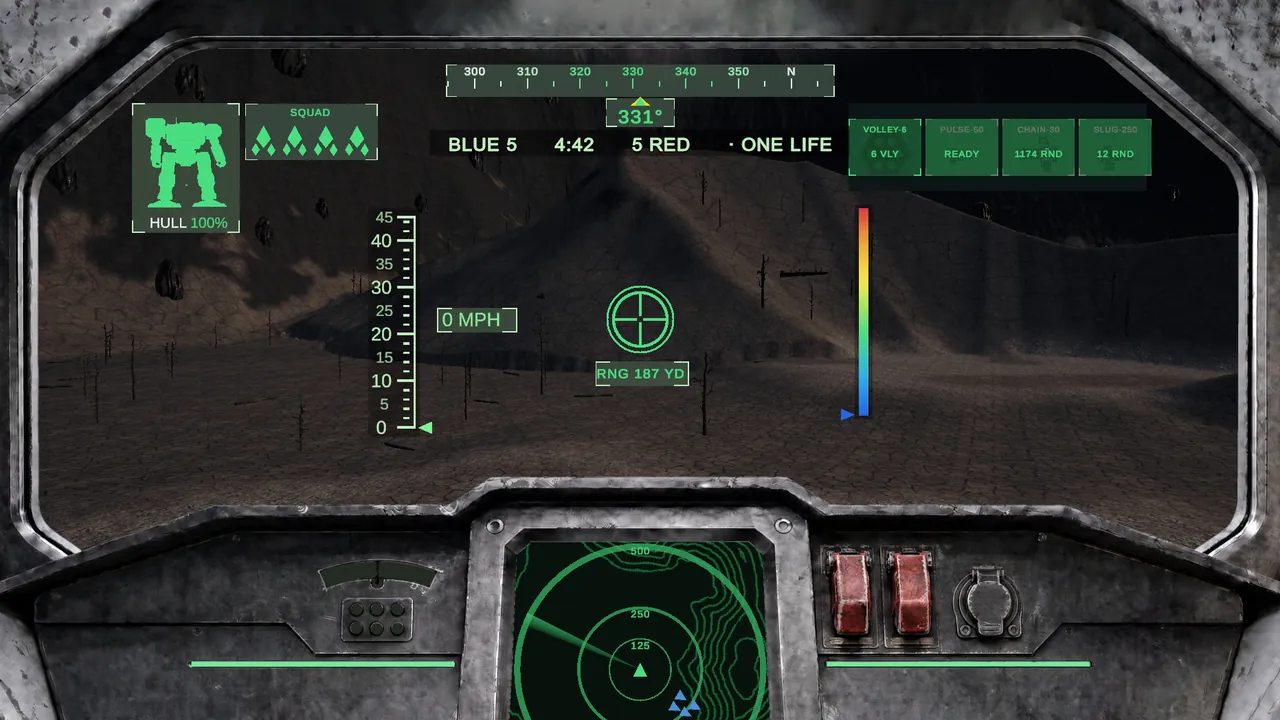
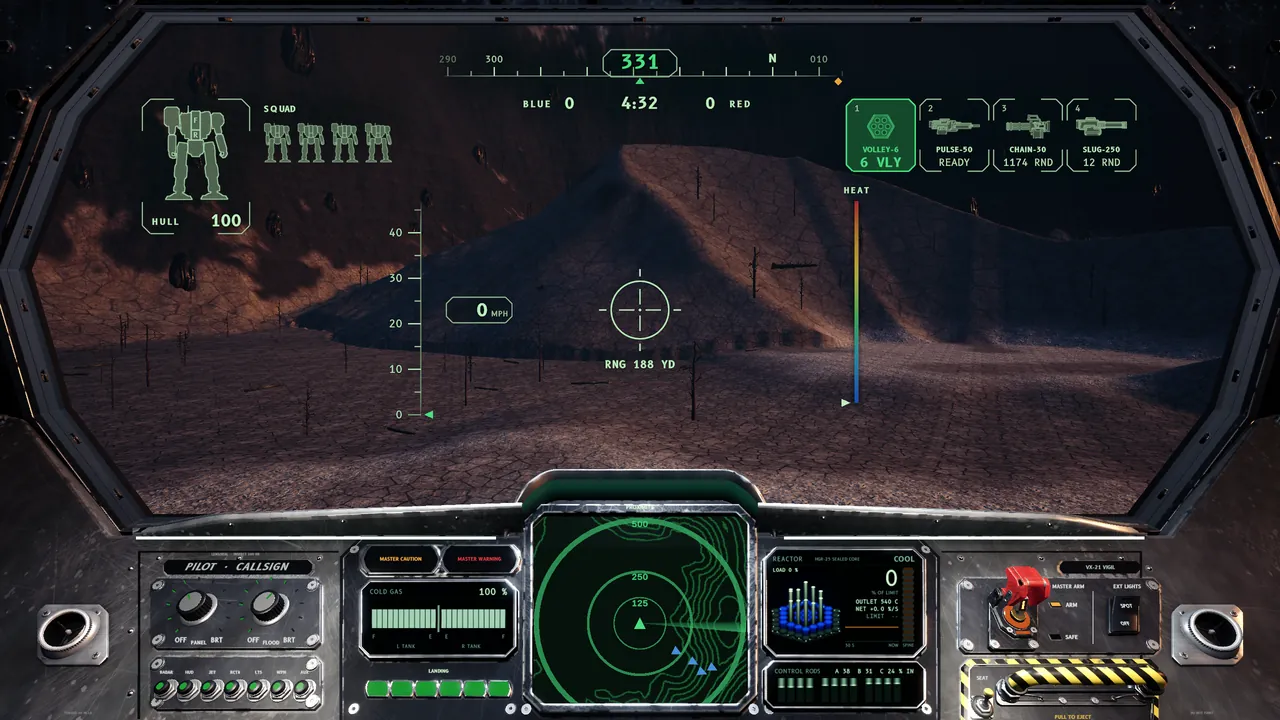
Each land's cockpit picture, re-shot in the new 3D cockpit

diff --git a/thereach/index.html b/thereach/index.html
@@ -18,15 +18,15 @@
   <meta property="og:image:height" content="630">
   <meta name="twitter:card" content="summary_large_image">
 
-  <link rel="icon" href="/favicon.svg?v=a8fa8ab9" type="image/svg+xml">
-  <link rel="icon" href="/favicon-32.png?v=a8fa8ab9" sizes="32x32" type="image/png">
+  <link rel="icon" href="/favicon.svg?v=9d29cd86" type="image/svg+xml">
+  <link rel="icon" href="/favicon-32.png?v=9d29cd86" sizes="32x32" type="image/png">
   <link rel="apple-touch-icon" href="/apple-touch-icon.png">
 
   <link rel="preload" href="/assets/fonts/BarlowCondensed/BarlowCondensed-SemiBold.ttf" as="font" type="font/ttf" crossorigin>
   <link rel="preload" href="/assets/img/sky-2560.webp" as="image" media="(min-width: 1281px)">
   <link rel="preload" href="/assets/img/sky-1280.webp" as="image" media="(max-width: 1280px)">
-  <link rel="stylesheet" href="/assets/site.css?v=a8fa8ab9">
-  <link rel="stylesheet" href="/drop/drop.css?v=a8fa8ab9">
+  <link rel="stylesheet" href="/assets/site.css?v=9d29cd86">
+  <link rel="stylesheet" href="/drop/drop.css?v=9d29cd86">
   <script>
     // Boarding: arriving from another site opens on the shipboard network, which assets/site.js draws. Nothing is
     // stored in the browser (the privacy page promises that): a reload, Back, or a link from this site skips it. This
@@ -41,20 +41,20 @@
       }
     } catch (error) { /* no boarding screen */ }
   </script>
-  <script src="/assets/ship.js?v=a8fa8ab9" defer></script>
-  <script src="/assets/prealpha.js?v=a8fa8ab9" defer></script>
-  <script src="/assets/crossing.js?v=a8fa8ab9" defer></script>
-  <script src="/assets/site.js?v=a8fa8ab9" defer></script>
-  <script src="/drop/drop.js?v=a8fa8ab9" defer></script>
-  <script src="/assets/patch.js?v=a8fa8ab9" defer></script>
-  <script src="/assets/patchmaker.js?v=a8fa8ab9" defer></script>
-  <script src="/assets/front.js?v=a8fa8ab9" defer></script>
-  <script src="/assets/loadouts.js?v=a8fa8ab9" defer></script>
-  <script src="/assets/bench.js?v=a8fa8ab9" defer></script>
-  <script src="/assets/valor.js?v=a8fa8ab9" defer></script>
-  <script src="/assets/ranks.js?v=a8fa8ab9" defer></script>
-  <script src="/assets/story.js?v=a8fa8ab9" defer></script>
-  <script src="/assets/lands.js?v=a8fa8ab9" defer></script>
+  <script src="/assets/ship.js?v=9d29cd86" defer></script>
+  <script src="/assets/prealpha.js?v=9d29cd86" defer></script>
+  <script src="/assets/crossing.js?v=9d29cd86" defer></script>
+  <script src="/assets/site.js?v=9d29cd86" defer></script>
+  <script src="/drop/drop.js?v=9d29cd86" defer></script>
+  <script src="/assets/patch.js?v=9d29cd86" defer></script>
+  <script src="/assets/patchmaker.js?v=9d29cd86" defer></script>
+  <script src="/assets/front.js?v=9d29cd86" defer></script>
+  <script src="/assets/loadouts.js?v=9d29cd86" defer></script>
+  <script src="/assets/bench.js?v=9d29cd86" defer></script>
+  <script src="/assets/valor.js?v=9d29cd86" defer></script>
+  <script src="/assets/ranks.js?v=9d29cd86" defer></script>
+  <script src="/assets/story.js?v=9d29cd86" defer></script>
+  <script src="/assets/lands.js?v=9d29cd86" defer></script>
 </head>
 <body>
   <a class="skip" href="#main">Skip to content</a>
@@ -466,7 +466,7 @@
             <div class="land__gallery" data-gallery>
               <div class="land__stage">
                 <figure class="land__shot" data-thumb="/assets/img/lands/jungle-1-480.webp"><img src="/assets/img/lands/jungle-1-1280.webp" srcset="/assets/img/lands/jungle-1-1280.webp 1280w, /assets/img/lands/jungle-1-2560.webp 2560w" sizes="(min-width: 1000px) 820px, 100vw" alt="A VIGIL in the jungle hills, cloud on the ridges behind it" width="1280" height="720" loading="lazy" decoding="async"><figcaption>A VIGIL in the hills.</figcaption></figure>
-                <figure class="land__shot" data-thumb="/assets/img/lands/jungle-2-480.webp"><img src="/assets/img/lands/jungle-2-1280.webp" srcset="/assets/img/lands/jungle-2-1280.webp 1280w, /assets/img/lands/jungle-2-2560.webp 2560w" sizes="(min-width: 1000px) 820px, 100vw" alt="The cockpit view up a green slope toward the treeline" width="1280" height="720" loading="lazy" decoding="async"><figcaption>From the cockpit.</figcaption></figure>
+                <figure class="land__shot" data-thumb="/assets/img/lands/jungle-2-480.webp"><img src="/assets/img/lands/jungle-2-1280.webp" srcset="/assets/img/lands/jungle-2-1280.webp 1280w, /assets/img/lands/jungle-2-2560.webp 2560w" sizes="(min-width: 1000px) 820px, 100vw" alt="The cockpit view across a green slope into the jungle's trees, the pilot&#x27;s instruments and radar below" width="1280" height="720" loading="lazy" decoding="async"><figcaption>From the cockpit.</figcaption></figure>
                 <figure class="land__shot" data-thumb="/assets/img/lands/jungle-3-480.webp"><img src="/assets/img/lands/jungle-3-1280.webp" srcset="/assets/img/lands/jungle-3-1280.webp 1280w, /assets/img/lands/jungle-3-2560.webp 2560w" sizes="(min-width: 1000px) 820px, 100vw" alt="The jungle valley and its river from above the canopy, peaks in cloud" width="1280" height="720" loading="lazy" decoding="async"><figcaption>The river and the hills.</figcaption></figure>
                 <figure class="land__shot" data-thumb="/assets/img/lands/jungle-4-480.webp"><img src="/assets/img/lands/jungle-4-1280.webp" srcset="/assets/img/lands/jungle-4-1280.webp 1280w, /assets/img/lands/jungle-4-2560.webp 2560w" sizes="(min-width: 1000px) 820px, 100vw" alt="Dark canopy over the river, a pass between the hills beyond" width="1280" height="720" loading="lazy" decoding="async"><figcaption>Under the cloud.</figcaption></figure>
               </div>
@@ -508,7 +508,7 @@
             <div class="land__gallery" data-gallery>
               <div class="land__stage">
                 <figure class="land__shot" data-thumb="/assets/img/lands/badlands-1-480.webp"><img src="/assets/img/lands/badlands-1-1280.webp" srcset="/assets/img/lands/badlands-1-1280.webp 1280w, /assets/img/lands/badlands-1-2560.webp 2560w" sizes="(min-width: 1000px) 820px, 100vw" alt="A VIGIL on black rock, the volcano erupting behind it and lava running down the rim" width="1280" height="720" loading="lazy" decoding="async"><figcaption>A VIGIL under the volcano, on an eruption day.</figcaption></figure>
-                <figure class="land__shot" data-thumb="/assets/img/lands/badlands-2-480.webp"><img src="/assets/img/lands/badlands-2-1280.webp" srcset="/assets/img/lands/badlands-2-1280.webp 1280w, /assets/img/lands/badlands-2-2560.webp 2560w" sizes="(min-width: 1000px) 820px, 100vw" alt="The cockpit view across dark basalt toward the rim" width="1280" height="720" loading="lazy" decoding="async"><figcaption>From the cockpit.</figcaption></figure>
+                <figure class="land__shot" data-thumb="/assets/img/lands/badlands-2-480.webp"><img src="/assets/img/lands/badlands-2-1280.webp" srcset="/assets/img/lands/badlands-2-1280.webp 1280w, /assets/img/lands/badlands-2-2560.webp 2560w" sizes="(min-width: 1000px) 820px, 100vw" alt="The cockpit view across cracked basalt toward a bare ridge, the pilot&#x27;s instruments and radar below" width="1280" height="720" loading="lazy" decoding="async"><figcaption>From the cockpit.</figcaption></figure>
                 <figure class="land__shot" data-thumb="/assets/img/lands/badlands-3-480.webp"><img src="/assets/img/lands/badlands-3-1280.webp" srcset="/assets/img/lands/badlands-3-1280.webp 1280w, /assets/img/lands/badlands-3-2560.webp 2560w" sizes="(min-width: 1000px) 820px, 100vw" alt="Lava running across the floor of the badlands, mechs on the ground in front of it" width="1280" height="720" loading="lazy" decoding="async"><figcaption>Lava out on the field.</figcaption></figure>
                 <figure class="land__shot" data-thumb="/assets/img/lands/badlands-4-480.webp"><img src="/assets/img/lands/badlands-4-1280.webp" srcset="/assets/img/lands/badlands-4-1280.webp 1280w, /assets/img/lands/badlands-4-2560.webp 2560w" sizes="(min-width: 1000px) 820px, 100vw" alt="The volcano smoking above the dark rim of the badlands" width="1280" height="720" loading="lazy" decoding="async"><figcaption>The cone on the skyline, on a quiet day.</figcaption></figure>
               </div>

diff --git a/hangar/index.html b/hangar/index.html
@@ -16,18 +16,18 @@
   <meta property="og:image:height" content="630">
   <meta name="twitter:card" content="summary_large_image">
   <meta name="theme-color" content="#07090d">
-  <link rel="icon" href="/favicon.svg?v=a8fa8ab9" type="image/svg+xml">
-  <link rel="icon" href="/favicon-32.png?v=a8fa8ab9" sizes="32x32" type="image/png">
+  <link rel="icon" href="/favicon.svg?v=9d29cd86" type="image/svg+xml">
+  <link rel="icon" href="/favicon-32.png?v=9d29cd86" sizes="32x32" type="image/png">
   <link rel="apple-touch-icon" href="/apple-touch-icon.png">
   <link rel="preload" href="/hangar/bay/plate.webp" as="image">
   <link rel="preload" href="/hangar/spin/base/vigil-000.webp" as="image">
-  <link rel="stylesheet" href="/assets/site.css?v=a8fa8ab9">
-  <link rel="stylesheet" href="/hangar/hangar.css?v=a8fa8ab9">
-  <script src="/assets/ship.js?v=a8fa8ab9" defer></script>
-  <script src="/assets/prealpha.js?v=a8fa8ab9" defer></script>
-  <script src="/assets/site.js?v=a8fa8ab9" defer></script>
-  <script src="/assets/loadouts.js?v=a8fa8ab9" defer></script>
-  <script src="/hangar/hangar.js?v=a8fa8ab9" defer></script>
+  <link rel="stylesheet" href="/assets/site.css?v=9d29cd86">
+  <link rel="stylesheet" href="/hangar/hangar.css?v=9d29cd86">
+  <script src="/assets/ship.js?v=9d29cd86" defer></script>
+  <script src="/assets/prealpha.js?v=9d29cd86" defer></script>
+  <script src="/assets/site.js?v=9d29cd86" defer></script>
+  <script src="/assets/loadouts.js?v=9d29cd86" defer></script>
+  <script src="/hangar/hangar.js?v=9d29cd86" defer></script>
 </head>
 <body>
   <a class="skip" href="#hangar">Skip to content</a>

diff --git a/physics/index.html b/physics/index.html
@@ -16,15 +16,15 @@
   <meta property="og:image:height" content="630">
   <meta name="twitter:card" content="summary_large_image">
   <meta name="theme-color" content="#07090d">
-  <link rel="icon" href="/favicon.svg?v=a8fa8ab9" type="image/svg+xml">
-  <link rel="icon" href="/favicon-32.png?v=a8fa8ab9" sizes="32x32" type="image/png">
+  <link rel="icon" href="/favicon.svg?v=9d29cd86" type="image/svg+xml">
+  <link rel="icon" href="/favicon-32.png?v=9d29cd86" sizes="32x32" type="image/png">
   <link rel="apple-touch-icon" href="/apple-touch-icon.png">
-  <link rel="stylesheet" href="/assets/site.css?v=a8fa8ab9">
-  <link rel="stylesheet" href="/physics/physics.css?v=a8fa8ab9">
-  <script src="/assets/ship.js?v=a8fa8ab9" defer></script>
-  <script src="/assets/prealpha.js?v=a8fa8ab9" defer></script>
-  <script src="/assets/site.js?v=a8fa8ab9" defer></script>
-  <script src="/physics/physics.js?v=a8fa8ab9" defer></script>
+  <link rel="stylesheet" href="/assets/site.css?v=9d29cd86">
+  <link rel="stylesheet" href="/physics/physics.css?v=9d29cd86">
+  <script src="/assets/ship.js?v=9d29cd86" defer></script>
+  <script src="/assets/prealpha.js?v=9d29cd86" defer></script>
+  <script src="/assets/site.js?v=9d29cd86" defer></script>
+  <script src="/physics/physics.js?v=9d29cd86" defer></script>
 </head>
 <body>
   <a class="skip" href="#physics">Skip to content</a>

diff --git a/armory/index.html b/armory/index.html
@@ -16,15 +16,15 @@
   <meta property="og:image:height" content="630">
   <meta name="twitter:card" content="summary_large_image">
   <meta name="theme-color" content="#07090d">
-  <link rel="icon" href="/favicon.svg?v=a8fa8ab9" type="image/svg+xml">
-  <link rel="icon" href="/favicon-32.png?v=a8fa8ab9" sizes="32x32" type="image/png">
+  <link rel="icon" href="/favicon.svg?v=9d29cd86" type="image/svg+xml">
+  <link rel="icon" href="/favicon-32.png?v=9d29cd86" sizes="32x32" type="image/png">
   <link rel="apple-touch-icon" href="/apple-touch-icon.png">
-  <link rel="stylesheet" href="/assets/site.css?v=a8fa8ab9">
-  <link rel="stylesheet" href="/armory/armory.css?v=a8fa8ab9">
-  <script src="/assets/ship.js?v=a8fa8ab9" defer></script>
-  <script src="/assets/prealpha.js?v=a8fa8ab9" defer></script>
-  <script src="/assets/site.js?v=a8fa8ab9" defer></script>
-  <script src="/armory/armory.js?v=a8fa8ab9" defer></script>
+  <link rel="stylesheet" href="/assets/site.css?v=9d29cd86">
+  <link rel="stylesheet" href="/armory/armory.css?v=9d29cd86">
+  <script src="/assets/ship.js?v=9d29cd86" defer></script>
+  <script src="/assets/prealpha.js?v=9d29cd86" defer></script>
+  <script src="/assets/site.js?v=9d29cd86" defer></script>
+  <script src="/armory/armory.js?v=9d29cd86" defer></script>
 </head>
 <body>
   <a class="skip" href="#armory">Skip to content</a>

diff --git a/presskit/index.html b/presskit/index.html
@@ -7,10 +7,10 @@
   <meta name="description" content="Fact sheet, descriptions, art and logos for The Reach: Unknown, a persistent first-person mech war from Mach Tuck Games.">
   <link rel="canonical" href="https://machtuck.com/presskit/">
   <meta name="theme-color" content="#07090d">
-  <link rel="icon" href="/favicon.svg?v=a8fa8ab9" type="image/svg+xml">
-  <link rel="icon" href="/favicon-32.png?v=a8fa8ab9" sizes="32x32" type="image/png">
-  <link rel="stylesheet" href="/assets/site.css?v=a8fa8ab9">
-  <script src="/assets/prealpha.js?v=a8fa8ab9" defer></script>
+  <link rel="icon" href="/favicon.svg?v=9d29cd86" type="image/svg+xml">
+  <link rel="icon" href="/favicon-32.png?v=9d29cd86" sizes="32x32" type="image/png">
+  <link rel="stylesheet" href="/assets/site.css?v=9d29cd86">
+  <script src="/assets/prealpha.js?v=9d29cd86" defer></script>
 </head>
 <body class="doc-page">
   <header class="doc-bar">

diff --git a/welcome/index.html b/welcome/index.html
@@ -8,10 +8,10 @@
   <!-- Where Kit sends a pilot after the closed beta form (the form's redirect setting in Kit). Linked from nowhere on the site. -->
   <meta name="robots" content="noindex">
   <meta name="theme-color" content="#07090d">
-  <link rel="icon" href="/favicon.svg?v=a8fa8ab9" type="image/svg+xml">
-  <link rel="icon" href="/favicon-32.png?v=a8fa8ab9" sizes="32x32" type="image/png">
-  <link rel="stylesheet" href="/assets/site.css?v=a8fa8ab9">
-  <script src="/assets/site.js?v=a8fa8ab9" defer></script>
+  <link rel="icon" href="/favicon.svg?v=9d29cd86" type="image/svg+xml">
+  <link rel="icon" href="/favicon-32.png?v=9d29cd86" sizes="32x32" type="image/png">
+  <link rel="stylesheet" href="/assets/site.css?v=9d29cd86">
+  <script src="/assets/site.js?v=9d29cd86" defer></script>
 </head>
 <body class="doc-page">
   <header class="doc-bar">

diff --git a/front/index.html b/front/index.html
@@ -16,8 +16,8 @@
 <meta property="og:image:width" content="1200">
 <meta property="og:image:height" content="630">
 <meta name="twitter:card" content="summary_large_image">
-<link rel="icon" href="/favicon.svg?v=a8fa8ab9" type="image/svg+xml">
-<link rel="icon" href="/favicon-32.png?v=a8fa8ab9" sizes="32x32" type="image/png">
+<link rel="icon" href="/favicon.svg?v=9d29cd86" type="image/svg+xml">
+<link rel="icon" href="/favicon-32.png?v=9d29cd86" sizes="32x32" type="image/png">
 <link rel="apple-touch-icon" href="/apple-touch-icon.png">
 <!-- The Front explorer: the game's map plate over the explorer's ridged relief (Tools/front/explorer/bake_explorer_relief.py),
      drawn with the site's war-table engine (Website/assets/front.js). Assembled into one offline file by build_explorer.py:

diff --git a/community-terms/index.html b/community-terms/index.html
@@ -7,9 +7,9 @@
   <meta name="description" content="What happens to the ideas and feedback you share with Mach Tuck Games in our Discord, on our site or in our game.">
   <link rel="canonical" href="https://machtuck.com/community-terms/">
   <meta name="theme-color" content="#07090d">
-  <link rel="icon" href="/favicon.svg?v=a8fa8ab9" type="image/svg+xml">
-  <link rel="icon" href="/favicon-32.png?v=a8fa8ab9" sizes="32x32" type="image/png">
-  <link rel="stylesheet" href="/assets/site.css?v=a8fa8ab9">
+  <link rel="icon" href="/favicon.svg?v=9d29cd86" type="image/svg+xml">
+  <link rel="icon" href="/favicon-32.png?v=9d29cd86" sizes="32x32" type="image/png">
+  <link rel="stylesheet" href="/assets/site.css?v=9d29cd86">
 </head>
 <body class="doc-page">
   <header class="doc-bar">

diff --git a/privacy/index.html b/privacy/index.html
@@ -7,9 +7,9 @@
   <meta name="description" content="What machtuck.com collects: only what you send through the closed beta form. No cookies, no analytics, no tracking.">
   <link rel="canonical" href="https://machtuck.com/privacy/">
   <meta name="theme-color" content="#07090d">
-  <link rel="icon" href="/favicon.svg?v=a8fa8ab9" type="image/svg+xml">
-  <link rel="icon" href="/favicon-32.png?v=a8fa8ab9" sizes="32x32" type="image/png">
-  <link rel="stylesheet" href="/assets/site.css?v=a8fa8ab9">
+  <link rel="icon" href="/favicon.svg?v=9d29cd86" type="image/svg+xml">
+  <link rel="icon" href="/favicon-32.png?v=9d29cd86" sizes="32x32" type="image/png">
+  <link rel="stylesheet" href="/assets/site.css?v=9d29cd86">
 </head>
 <body class="doc-page">
   <header class="doc-bar">

diff --git a/art/index.html b/art/index.html
@@ -7,9 +7,9 @@
   <meta name="description" content="How the art of The Reach: Unknown is made, and where AI tools come in.">
   <link rel="canonical" href="https://machtuck.com/art/">
   <meta name="theme-color" content="#07090d">
-  <link rel="icon" href="/favicon.svg?v=a8fa8ab9" type="image/svg+xml">
-  <link rel="icon" href="/favicon-32.png?v=a8fa8ab9" sizes="32x32" type="image/png">
-  <link rel="stylesheet" href="/assets/site.css?v=a8fa8ab9">
+  <link rel="icon" href="/favicon.svg?v=9d29cd86" type="image/svg+xml">
+  <link rel="icon" href="/favicon-32.png?v=9d29cd86" sizes="32x32" type="image/png">
+  <link rel="stylesheet" href="/assets/site.css?v=9d29cd86">
 </head>
 <body class="doc-page">
   <header class="doc-bar">

diff --git a/drop/index.html b/drop/index.html
@@ -7,10 +7,10 @@
   <!-- A test page for the scroll drop: linked from nothing and kept out of search. -->
   <meta name="robots" content="noindex">
   <meta name="theme-color" content="#07090d">
-  <link rel="icon" href="/favicon.svg?v=a8fa8ab9" type="image/svg+xml">
-  <link rel="stylesheet" href="/assets/site.css?v=a8fa8ab9">
-  <link rel="stylesheet" href="/drop/drop.css?v=a8fa8ab9">
-  <script src="/drop/drop.js?v=a8fa8ab9" defer></script>
+  <link rel="icon" href="/favicon.svg?v=9d29cd86" type="image/svg+xml">
+  <link rel="stylesheet" href="/assets/site.css?v=9d29cd86">
+  <link rel="stylesheet" href="/drop/drop.css?v=9d29cd86">
+  <script src="/drop/drop.js?v=9d29cd86" defer></script>
 </head>
 <body>
   <main>

diff --git a/terms/index.html b/terms/index.html
@@ -7,9 +7,9 @@
   <meta name="description" content="The terms of use for machtuck.com.">
   <link rel="canonical" href="https://machtuck.com/terms/">
   <meta name="theme-color" content="#07090d">
-  <link rel="icon" href="/favicon.svg?v=a8fa8ab9" type="image/svg+xml">
-  <link rel="icon" href="/favicon-32.png?v=a8fa8ab9" sizes="32x32" type="image/png">
-  <link rel="stylesheet" href="/assets/site.css?v=a8fa8ab9">
+  <link rel="icon" href="/favicon.svg?v=9d29cd86" type="image/svg+xml">
+  <link rel="icon" href="/favicon-32.png?v=9d29cd86" sizes="32x32" type="image/png">
+  <link rel="stylesheet" href="/assets/site.css?v=9d29cd86">
 </head>
 <body class="doc-page">
   <header class="doc-bar">
